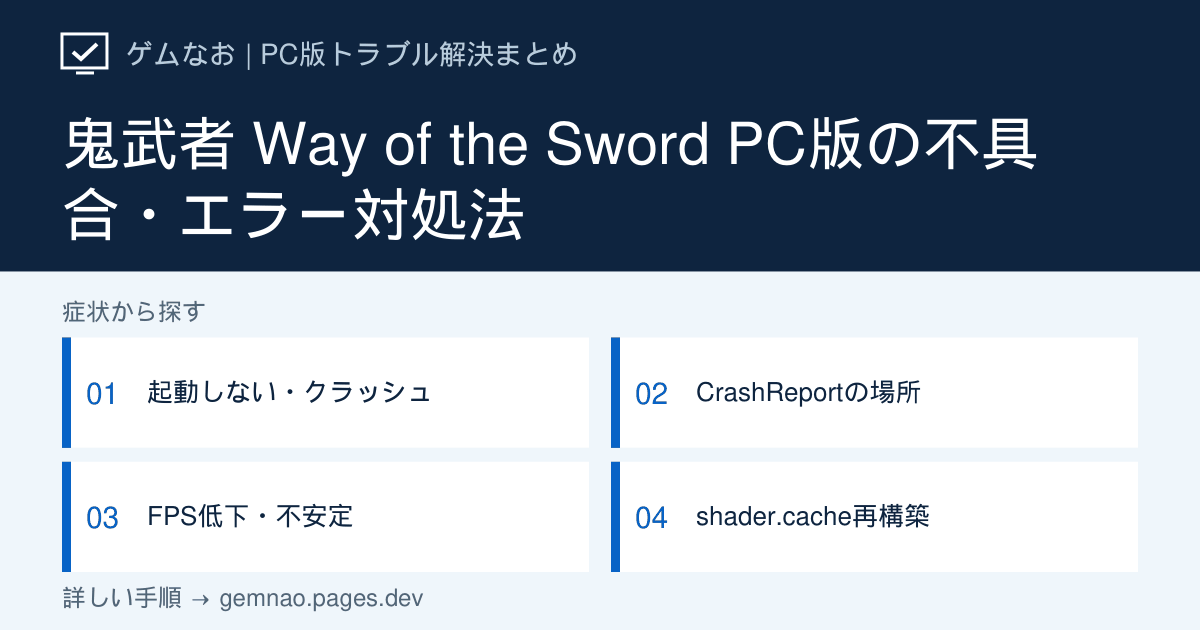
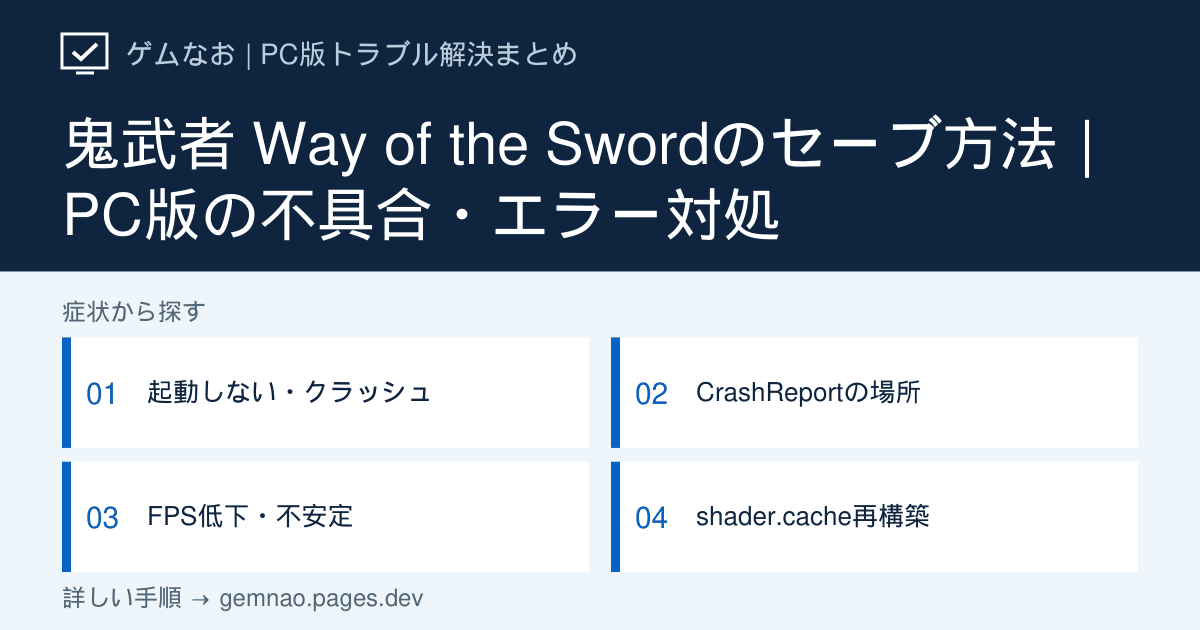
Clarify five troubleshooting pages from Search Console queries

Changed region(s): [[0.0308, 0.3016, 0.6475, 0.3921], [0.5858, 0.181, 0.925, 0.2714]]

diff --git a/lib/discord-audio-growth-articles.ts b/lib/discord-audio-growth-articles.ts
@@ -139,9 +139,9 @@ export const discordAudioGrowthArticles: DiscordArticle[] = [
   },
   {
     slug: 'mic-volume-low', category: 'audio',
-    title: 'Discordでマイク・声が小さい時の直し方【自分と相手の設定を切り分け】',
+    title: 'Discordで自分の声・マイク音量が小さい時の直し方【PC版】',
     shortTitle: 'マイク・自分の声が小さい',
-    seoTitle: 'Discordでマイク・声が小さい原因と直し方｜100％でも小さい場合',
+    seoTitle: 'Discordで自分の声が小さい時の対処法｜マイク音量100％でも小さい場合',
     metaDescription: 'Discordで自分の声が小さいと言われる時の対処法。全員に小さいか特定の相手だけかを確認し、聞く側の個別音量、Windows録音、Discord入力音量を比較。100％でも小さい場合や音割れへの対処を解説します。',
     symptom: 'Discordで声が小さいと言われる、入力音量を上げても改善しない場合の手順です。特定の相手だけが小さく感じているのか、マイクから入る声自体が小さいのかを分けて調べます。',
     target: 'Windows 11／Windows 10のDiscordデスクトップアプリ',
@@ -150,7 +150,7 @@ export const discordAudioGrowthArticles: DiscordArticle[] = [
       href: '/discord/user-volume-low',
       label: '相手の声が小さい時の直し方',
     },
-    conclusion: 'まず別の参加者にも声の大きさを確認します。1人だけ小さいなら、その相手が自分に設定した個別音量を確認。全員に小さいなら、同じマイクでWindows録音とDiscordのマイクテストを比べ、録音から小さい場合はWindows・機器側、Discordだけ小さい場合は入力音量を調整します。',
+    conclusion: '自分の声が小さいと言われる場合は、別の参加者にも聞こえ方を確認します。1人にだけ小さく聞こえるなら、その人が自分に設定した個別音量を確認。全員に小さいなら同じマイクで録音とDiscordテストを比べ、録音も小さければWindows・機器側、Discordだけなら入力設定へ進みます。自分が聞く相手の声が小さい場合は、上の案内から出力側の記事へ進んでください。',
     quickFixes: [
       '誰に小さく聞こえるか確認し、特定の相手だけならその人の個別音量を調べる',
       '同じマイク・距離・文章でWindows録音とDiscordのマイクテストを比較する',
@@ -239,8 +239,8 @@ export const discordAudioGrowthArticles: DiscordArticle[] = [
       { label: 'Microsoft公式：マイクの音量・ブーストなどの問題を修正する（英語）', url: 'https://support.microsoft.com/en-us/windows/hardware/drivers/fix-microphone-problems' },
     ],
     related: ['user-volume-low', 'voice-cutting-out', 'mic-not-working', 'audio-input-not-found', 'cant-hear-voice'],
-    checkedAt: '2026-10-08', status: 'verified',
-    ogTitle: 'Discordでマイク・声が小さい？',
+    checkedAt: '2026-10-16', status: 'verified',
+    ogTitle: 'Discordで自分の声が小さい？',
     ogSteps: ['1人だけ？ 全員に小さい？', '相手の個別音量を確認', '録音とDiscordテストを比較', '入力音量を1項目ずつ調整'],
   },
   {

diff --git a/lib/steam-launch-guide.ts b/lib/steam-launch-guide.ts
@@ -3,12 +3,12 @@ import type { CommonGuide } from './common-guides';
 export const steamLaunchGuide: CommonGuide = {
   slug: 'steam-game-not-launching',
   title:
-    'Steamゲームが起動しない時の対処法｜プレイを押しても起動しない・「起動準備を行っています」で止まる',
+    'Steamゲームが起動しない時の対処法｜起動エラー・無反応・すぐ閉じる',
   shortTitle: 'Steamゲームが起動しない',
   description:
-    'Steamの「プレイ」を押しても起動しない、「起動準備を行っています」のあと何も起きない、一瞬「停止」になって「プレイ」に戻る場合を分けて対処。Steam公式の基本手順（Windows Update・.NET Framework・整合性確認・妨害ソフト）と、タスクマネージャー・信頼性履歴での確認を順に解説します。',
+    'Steamで「このゲームの起動中にエラーが発生しました」と出る、プレイを押しても無反応、一瞬起動して閉じる場合の対処法。エラーの詳細文とボタンの変化から、整合性確認・停止履歴・外部ランチャーなど確認先を選べます。Windows PC向け。',
   conclusion:
-    'Windows PC向けの手順です。「このゲームの起動中にエラーが発生しました」と出たら、続く詳細文も控えてから対処を選びます。「プレイ」を押した直後にボタンが変わるか、ゲームのプロセスが現れるかを観察します。Steam全体が反応しないならSteamを通常終了してPCを再起動。ゲームのプロセスが一瞬現れて閉じるなら信頼性履歴で同時刻のエラーを確認。表示されたエラー文があるなら名前ごとの手順を先に選びます。整合性確認やMOD停止は確認結果に合わせて1つずつ試してください。',
+    '「このゲームの起動中にエラーが発生しました」と出たら、続く詳細文で確認先を選びます。実行ファイル不足なら整合性と保護履歴、実行中なら残ったゲームやランチャーを確認。エラーなしで「プレイ」に戻るなら同時刻の停止履歴、複数ゲームで無反応ならSteam・PCの再起動から進めます。Windows PC向けです。',
   checkedAt: '2026-10-08',
   status: 'verified',
   causes: [

diff --git a/lib/games.ts b/lib/games.ts
@@ -11,6 +11,7 @@ export type GameGuide = {
   title: string;
   shortTitle: string;
   hubTitle?: string;
+  hubDescription?: string;
   lead: string;
   accent: string;
   demand: string;
@@ -46,7 +47,7 @@ export const games: GameGuide[] = [
     title: 'Aniimo / アニモ',
     shortTitle: 'アニモ（Aniimo）',
     hubTitle: aniimoHubTitle,
-    lead: 'アニモ（Aniimo）の不具合を、起動・ログイン・画面表示の症状から切り分けるPC版ガイドです。公式の修復方法と、結果に応じた次の行動を確認できます。',
+    lead: 'アニモ（Aniimo）が起動しない・開かない、途中で落ちる時のPC版ガイドです。ログイン・黒画面も症状別に分け、公式の修復方法と結果に応じた次の行動を確認できます。',
     accent: '#6f5bd3',
     demand: 'Windows PC版：公式ランチャー・Steam',
     issueScale: '高い',
@@ -113,7 +114,9 @@ export const games: GameGuide[] = [
     slug: 'onimusha-way-of-the-sword',
     title: '鬼武者 Way of the Sword',
     shortTitle: '鬼武者 Way of the Sword',
-    lead: '破魔鏡でのセーブ方法と、PC版の起動失敗・クラッシュ・低FPSの確認先を案内。セーブ方法は画像付き攻略、PCの不具合対処は公式情報を出典として区別しています。',
+    hubTitle: '鬼武者 Way of the Swordのセーブ方法｜PC版の不具合・エラー対処',
+    hubDescription: '鬼武者 Way of the Swordのセーブ方法を画像付き攻略から確認。PC操作キー・オートセーブ条件は未検証。起動しない・クラッシュ・低FPSなどPC版の不具合は、公式情報に基づく症状別記事へ案内します。',
+    lead: '『鬼武者 Way of the Sword』のセーブ方法は、下の「セーブ方法」で案内します。破魔鏡の画像付き攻略を出典とし、PC操作キー・オートセーブ条件は未検証です。起動失敗・クラッシュ・低FPSは、公式情報に基づく症状別記事へ進んでください。',
     accent: '#8b2f28',
     demand: '2026年9月3日発売の新作',
     issueScale: '高い',

diff --git a/lib/steam-input-guide.ts b/lib/steam-input-guide.ts
@@ -2,12 +2,12 @@ import type { CommonGuide } from './common-guides';
 
 export const steamInputGuide: CommonGuide = {
   slug: 'steam-input-controller',
-  title: 'Steam Inputでコントローラーが反応しない時の直し方｜認識場所別に確認',
+  title: 'Steamでコントローラーが反応しない時の対処法｜認識・Steam Inputを確認',
   shortTitle: 'Steam Input設定',
   description:
-    'コントローラーがWindows・Steam・ゲームのどこで反応しなくなるかを判別。Steamが認識しない場合の接続確認と、Steamでは認識するのにゲームで動かない場合のゲーム別Steam Input・レイアウト・競合の確認を、期待結果つきで説明します。',
+    'Steamでコントローラーを認識しない、Steamでは反応するのにゲームだけ動かない場合の対処法。接続・入力テスト、ゲーム別Steam Inputの有効／無効、レイアウトを順に比較し、一部のボタンだけ効かない・二重入力の場合も切り分けます。',
   conclusion:
-    'Steamの「設定」→「コントローラ」で機器名とボタン入力を確認します。Steamに出ないなら接続・Windows側を確認。Steamでは入力できるのにゲームだけ無反応なら、対象ゲームの「プロパティ」→「コントローラ」でSteam Inputを1回だけ切り替え、ゲームを再起動して同じボタンを試します。ゲーム側がパッド非対応の場合は、ゲームパッド操作のままでは動かないため、公式の対応情報とレイアウトの入力方式も確認してください。',
+    'Steamの「設定」→「コントローラ」で機器名とボタン入力を確認します。認識しないなら接続、Steamでは反応するのにゲームだけ動かないならゲーム別Steam Inputと対応状況を確認。一部だけ効かない・二重に動くならレイアウトと外部変換を調べます。変更は1項目ずつ、ゲームを再起動して同じボタンで比較してください。',
   checkedAt: '2026-10-03',
   status: 'verified',
   causes: [

diff --git a/app/games/[slug]/page.tsx b/app/games/[slug]/page.tsx
@@ -53,11 +53,12 @@ export async function generateMetadata({
           `${game.shortTitle} PC版の不具合・エラー対処法`
         : `${game.shortTitle} PC版｜起動しない・セーブ場所・推奨スペック`);
   const description =
-    game.slug === 'aniimo'
+    game.hubDescription ||
+    (game.slug === 'aniimo'
       ? aniimoHubDescription
       : game.focused
         ? `${game.shortTitle} PC版の${game.tags.join('・')}を症状別に解決。${game.lead}`
-        : `${game.shortTitle}のセーブデータと設定ファイルの場所、FPS上限、ウルトラワイド、HDR、コントローラー、起動・クラッシュ対策、MOD、日本語対応を解説。`;
+        : `${game.shortTitle}のセーブデータと設定ファイルの場所、FPS上限、ウルトラワイド、HDR、コントローラー、起動・クラッシュ対策、MOD、日本語対応を解説。`);
   return {
     title,
     description,
@@ -171,15 +172,20 @@ export default async function GamePage({
       about: game.title,
       mainEntityOfPage: `https://gemnao.pages.dev/games/${game.slug}`,
     },
-    {
-      '@context': 'https://schema.org',
-      '@type': 'FAQPage',
-      mainEntity: faq.map((item) => ({
-        '@type': 'Question',
-        name: item.q,
-        acceptedAnswer: { '@type': 'Answer', text: item.a },
-      })),
-    },
+    // This focused hub has no visible FAQ; do not emit its fallback question.
+    ...(game.slug === 'onimusha-way-of-the-sword'
+      ? []
+      : [
+          {
+            '@context': 'https://schema.org',
+            '@type': 'FAQPage',
+            mainEntity: faq.map((item) => ({
+              '@type': 'Question',
+              name: item.q,
+              acceptedAnswer: { '@type': 'Answer', text: item.a },
+            })),
+          },
+        ]),
     ...(game.slug === 'aniimo'
       ? [
           {

diff --git a/lib/aniimo-troubleshooting.ts b/lib/aniimo-troubleshooting.ts
@@ -1,10 +1,10 @@
 // Hub answers and the visible FAQ share this data; no hidden FAQ claims.
 export const aniimoHubTitle =
-  'アニモの不具合対処法｜起動・ログイン・黒画面を症状別に確認';
+  'アニモが起動しない・開かない時の対処法｜クラッシュ・ログインも確認';
 export const aniimoHubDescription =
-  'アニモ（Aniimo）の不具合を症状別に切り分け。PC版の起動失敗、ログインエラー、黒画面、ビデオメモリ不足、ランチャー表示の確認先と、公式の修復方法・報告窓口を案内します。';
+  'アニモ（Aniimo）PC版が起動しない・開かない、すぐ落ちる時の確認先を症状別に案内。公式ランチャーとSteamの修復方法を区別し、ログインエラー・黒画面・ビデオメモリ不足や、直らない場合の報告窓口も確認できます。';
 export const aniimoHubAnswer =
-  'アニモの不具合は、まず「起動前・ログイン中・プレイ中」のどこで止まるかと、エラー全文を確認します。ログインできない場合は公式のメンテナンス案内、起動直後に閉じる場合は配布元のファイル修復、黒画面の場合はWindowsが操作できるかを先に確認してください。PC版は下の症状別表から手順を選べます。';
+  'アニモが起動しない・開かない時は、ランチャー自体が開かないのか、ゲームが起動後に閉じるのかを先に確認します。クラッシュなら発生時刻とエラー全文を記録し、配布元別の修復へ。ログインで止まるなら公式のメンテナンス案内、黒画面ならWindowsを操作できるかを確認してください。下の症状別表から該当する記事へ進めます。';
 
 export const aniimoSymptomRows = [
   {

diff --git a/lib/og-image-manifest.ts b/lib/og-image-manifest.ts
@@ -20,7 +20,7 @@ export const ogImageManifest: Record<string, string> = {
   "/discord/loading-stuck": "c18e0bfc",
   "/discord/login-error": "de4a0c87",
   "/discord/mic-not-working": "56b12974",
-  "/discord/mic-volume-low": "148725ee",
+  "/discord/mic-volume-low": "da1a84ad",
   "/discord/no-route": "260d5615",
   "/discord/not-opening": "27fdd405",
   "/discord/notifications-not-working": "4ab41adc",
@@ -140,7 +140,7 @@ export const ogImageManifest: Record<string, string> = {
   "/games/ace-combat-8/time-sync-failed": "52d382df",
   "/games/aion2": "c1b351f2",
   "/games/aion2/login-error": "db0fe781",
-  "/games/aniimo": "91ec9e8d",
+  "/games/aniimo": "a955ed4b",
   "/games/aniimo/black-screen": "d4ce40f0",
   "/games/aniimo/launcher-display": "60776225",
   "/games/aniimo/login-error": "6262e42b",
@@ -211,7 +211,7 @@ export const ogImageManifest: Record<string, string> = {
   "/games/monster-hunter-wilds/save-data": "579b73ea",
   "/games/monster-hunter-wilds/system-requirements": "5fc68baa",
   "/games/monster-hunter-wilds/ultrawide": "7406efef",
-  "/games/onimusha-way-of-the-sword": "dd76f8ab",
+  "/games/onimusha-way-of-the-sword": "1927ee4e",
   "/games/onimusha-way-of-the-sword/black-screen": "30afc517",
   "/games/onimusha-way-of-the-sword/crash-report": "6f981b7f",
   "/games/onimusha-way-of-the-sword/gpu-driver-version": "e83221a2",

diff --git a/components/steam-launch-details.tsx b/components/steam-launch-details.tsx
@@ -4,10 +4,11 @@ export function SteamLaunchBeforeSteps() {
   return (
     <div className="reset-config-details steam-launch-details">
       <section className="diagnosis-table" id="steam-launch-symptoms">
-        <h2>「プレイ」を押した後、どの状態になる？</h2>
+        <h2>Steamゲームが起動しない：エラー文と「プレイ」後の状態で選ぶ</h2>
         <p>
-          下の表で<strong>Steamの表示・ゲームのウィンドウ・エラー文</strong>
-          を照らし合わせ、当てはまる行から確認を始めます。起動時に更新や初回セットアップが進んでいれば完了を待ち、ボタンを連打しないでください。
+          「このゲームの起動中にエラーが発生しました」という表示だけでは原因は決まりません。
+          <strong>続く詳細文・Steamの表示・ゲームのウィンドウ</strong>
+          を下の表と照らし合わせます。更新や初回セットアップが進んでいれば完了を待ち、ボタンを連打しないでください。
         </p>
         <table className="reset-examples">
           <thead>

diff --git a/components/steam-input-details.tsx b/components/steam-input-details.tsx
@@ -4,10 +4,10 @@ export function SteamInputBeforeSteps() {
   return (
     <div className="reset-config-details steam-input-details">
       <section className="diagnosis-table" id="input-branches">
-        <h2>どこまで認識される？ 最初に進む場所を決める</h2>
+        <h2>認識しない？ ゲームだけ動かない？ 最初の確認先</h2>
         <p>
-          まずゲームを終了し、パッドを<strong>1台だけ</strong>
-          接続します。Steamの画面をパッドで操作できることと、ゲームにボタン入力が届くことは別です。以下の順に、最後に反応した場所を確認してください。
+          <strong>Steamの入力テストまで反応するか</strong>
+          で、接続とゲーム別設定のどちらを調べるかを分けます。ゲームを終了し、パッドは1台だけ接続。Steam画面の操作だけでゲームにも入力が届くとは判断せず、下の表で最後に反応した場所を確認してください。
         </p>
         <table className="reset-examples">
           <thead>
